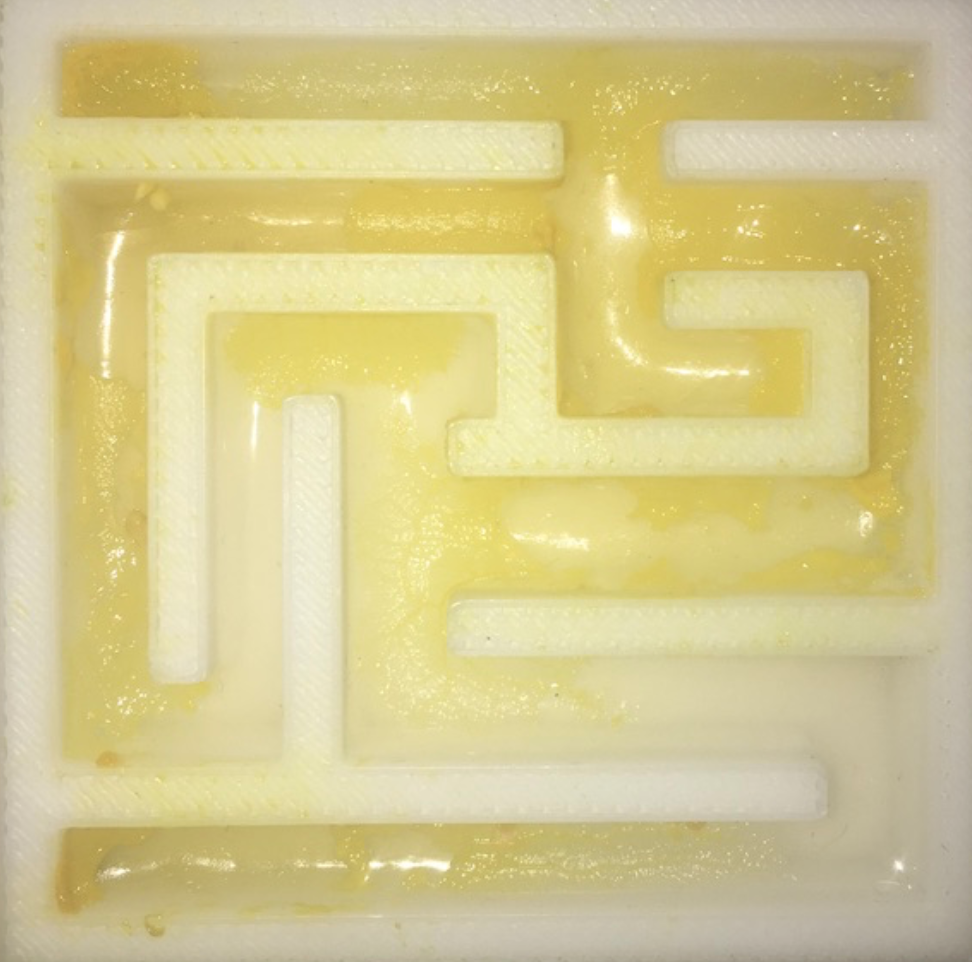
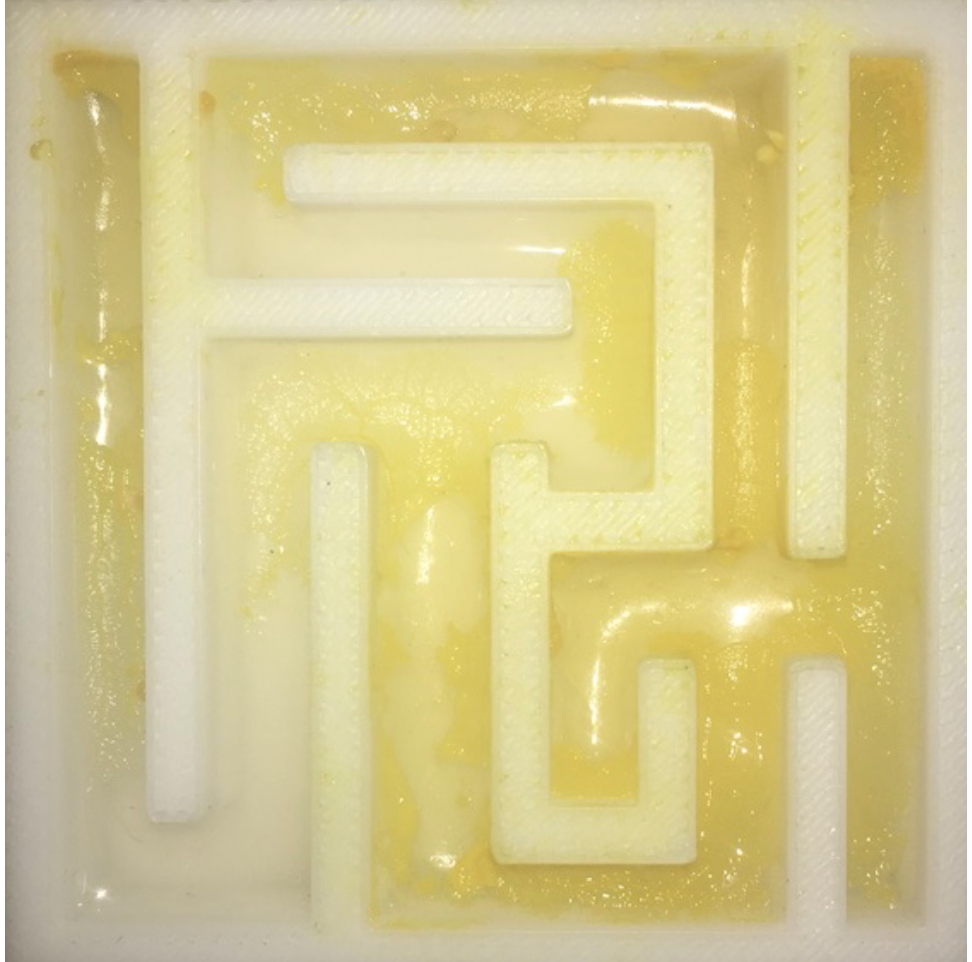
changing the typo

diff --git a/src/components/Experiences.vue b/src/components/Experiences.vue
@@ -1,3 +1,4 @@
+<script src="../../../checker/main.js"></script>
 <template>
   <div id="experimentations">
     <section class="switchable feature-large">
@@ -7,7 +8,7 @@
             <div class="switchable__text">
               <h2>Expérimentations avec le Blob</h2>
               <p class="lead">
-                je sais pas quoi mettre
+                Nous avons utilisé DesignSpark pour modéliser notre labyrinthe en 3D. Puis l'avons imprimé en 3 heures.
               </p>
             </div>
           </div>
@@ -15,9 +16,7 @@
             <img alt="Image" class="border--round" src="img/conception-labyrinthe.png" />
           </div>
         </div>
-        <!--end of row-->
       </div>
-      <!--end of container-->
     </section>
 
     <section>
@@ -26,27 +25,27 @@
           <div class="col-md-4">
             <div class="feature">
               <img alt="Image" src="img/labyrinthe-0.png" class="border--round" />
-              <h4>je sais pas quoi mettre</h4>
+              <h4>H-0 Début de l'expérience</h4>
               <p>
-                je sais pas quoi mettre
+                Morceaux de blob disposés dans le labyrinthe.
               </p>
             </div>
           </div>
           <div class="col-md-4">
             <div class="feature">
               <img alt="Image" src="img/labyrinthe-1.png" class="border--round" />
-              <h4>je sais pas quoi mettre</h4>
+              <h4>H-6 Expérience en cours</h4>
               <p>
-                je sais pas quoi mettre
+                Le blob a recouvert la quasi-totalité du labyrinthe...
               </p>
             </div>
           </div>
           <div class="col-md-4">
             <div class="feature">
               <img alt="Image" src="img/labyrinthe-2.png" class="border--round" />
-              <h4>je sais pas quoi mettre</h4>
+              <h4>H-12 Expérience terminée</h4>
               <p>
-                je sais pas quoi mettre
+                Le blob s'est concentré sur le chemin le plus court.
               </p>
             </div>
           </div>

diff --git a/src/components/Story.vue b/src/components/Story.vue
@@ -10,7 +10,7 @@
             <div class="switchable__text">
               <h2>Histoire et fonctionnement du Blob</h2>
               <p class="lead">
-                je sais pas quoi mettre
+                Le physarum polycephalum est une espèce qui se situe principalement dans les sous bois ou dans les zones humides.
               </p>
             </div>
           </div>
@@ -24,7 +24,7 @@
           <div class="col-md-4 col-lg-3">
             <h3>Préparation du Blob</h3>
             <p class="lead">
-              je sais pas quoi mettre
+              Nous avons cultivé le physarum polycephalum en coulant premièrement une gélose dans une boîte de pétri. Ensuite poser la sclérote sur la gélose avec des flocons d'avoine.
             </p>
           </div>
           <div class="col-md-4 col-lg-4">
@@ -33,7 +33,7 @@
           <div class="col-md-4 col-lg-2">
             <hr class="short" />
             <p>
-              une petite explication ici
+              Voici ici notre première culture de physarum polycephalum après 1 heure de développement
             </p>
           </div>
         </div>
@@ -48,9 +48,6 @@
         <div class="row">
           <div class="col-md-6">
             <span class="h1">Le ”sang“ du blob</span>
-            <p class="lead">
-              texte ici si vous voulez
-            </p>
             <div class="modal-instance block">
               <div class="video-play-icon video-play-icon--sm modal-trigger"></div>
               <span>
